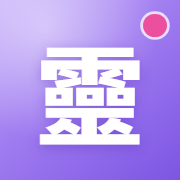
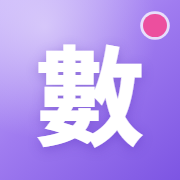
網站圖示改為「數」、算完顯示清除按鈕、19 91 標註帝王數

Changed region(s): [[0.1944, 0.2222, 0.8056, 0.8333]]

diff --git a/src/components/Calculator.tsx b/src/components/Calculator.tsx
@@ -72,6 +72,7 @@ function InputRow({
   placeholder,
   button,
   examples,
+  onClear,
 }: {
   value: string;
   onChange: (v: string) => void;
@@ -79,6 +80,8 @@ function InputRow({
   placeholder: string;
   button: string;
   examples?: string[];
+  /** 有值時代表已算完，按鈕變成「清除」 */
+  onClear?: () => void;
 }) {
   return (
     <div>
@@ -95,12 +98,22 @@ function InputRow({
           placeholder={placeholder}
           className="font-num min-w-0 flex-1 bg-transparent px-3 py-2.5 text-xl font-bold tracking-wider text-foreground outline-none placeholder:font-sans placeholder:text-sm placeholder:font-normal placeholder:tracking-normal placeholder:text-mute sm:text-2xl sm:placeholder:text-base"
         />
-        <button
-          type="submit"
-          className="shrink-0 rounded-2xl bg-gradient-to-br from-[#f47bb8] to-pink px-5 text-base font-black text-white shadow-[0_8px_20px_-8px_rgb(236_79_158/0.7)] transition hover:-translate-y-0.5 hover:shadow-[0_12px_24px_-8px_rgb(236_79_158/0.7)] active:translate-y-0 sm:px-8 sm:text-lg"
-        >
-          {button}
-        </button>
+        {onClear ? (
+          <button
+            type="button"
+            onClick={onClear}
+            className="shrink-0 rounded-2xl border-2 border-pink/40 bg-pink-soft px-5 text-base font-black text-pink transition hover:-translate-y-0.5 hover:border-pink active:translate-y-0 sm:px-8 sm:text-lg"
+          >
+            清除
+          </button>
+        ) : (
+          <button
+            type="submit"
+            className="shrink-0 rounded-2xl bg-gradient-to-br from-[#f47bb8] to-pink px-5 text-base font-black text-white shadow-[0_8px_20px_-8px_rgb(236_79_158/0.7)] transition hover:-translate-y-0.5 hover:shadow-[0_12px_24px_-8px_rgb(236_79_158/0.7)] active:translate-y-0 sm:px-8 sm:text-lg"
+          >
+            {button}
+          </button>
+        )}
       </form>
       {examples && (
         <div className="mt-3 flex flex-wrap items-center gap-2 text-xs text-mute">
@@ -177,6 +190,14 @@ function IdPanel() {
         value={input}
         onChange={setInput}
         onSubmit={(v) => setSubmitted(v ?? input)}
+        onClear={
+          submitted !== null && input === submitted
+            ? () => {
+                setInput("");
+                setSubmitted(null);
+              }
+            : undefined
+        }
         placeholder="輸入身分證字號"
         button="計算"
         examples={["A123456789"]}
@@ -257,6 +278,14 @@ function AnyPanel() {
         value={input}
         onChange={setInput}
         onSubmit={(v) => setSubmitted(v ?? input)}
+        onClear={
+          submitted !== null && input === submitted
+            ? () => {
+                setInput("");
+                setSubmitted(null);
+              }
+            : undefined
+        }
         placeholder="輸入一串英數字"
         button="計算"
         examples={["0912345678", "ABC-1234"]}

diff --git a/src/app/page.tsx b/src/app/page.tsx
@@ -28,7 +28,7 @@ export default function Home() {
         <div className="mx-auto flex h-14 max-w-6xl items-center justify-between px-4 sm:px-8">
           <a href="#" className="mr-2 flex shrink-0 items-center gap-2">
             <span className="grid h-8 w-8 place-items-center rounded-xl bg-gradient-to-br from-good to-good-deep text-sm font-black text-white">
-              靈
+              數
             </span>
             <span className="hidden font-black tracking-wider text-mute-dark sm:inline">東方靈數</span>
           </a>

diff --git a/src/lib/chart-data.ts b/src/lib/chart-data.ts
@@ -44,7 +44,7 @@ export const CHART: ChartRow[] = [
     title: "守財 健康 創業",
     desc: "用太多會變鐵公雞",
     pairs: [
-      { nums: ["19", "91"] },
+      { nums: ["19", "91"], note: "帝王數" },
       { nums: ["78", "87"] },
       { nums: ["43", "34"], note: "為善破財", muted: true },
       { nums: ["26", "62"] },
